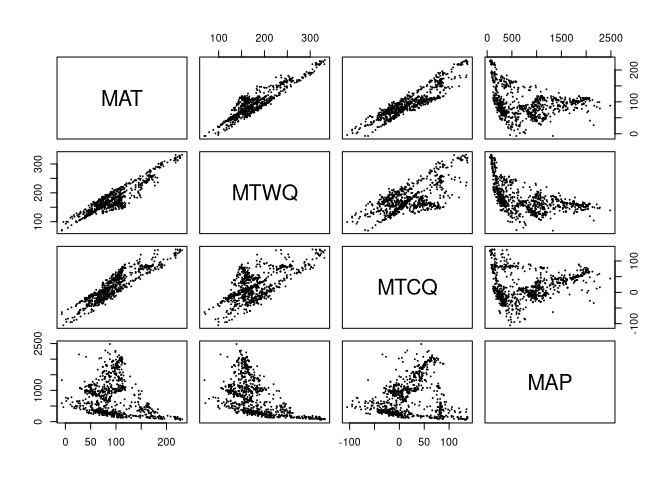
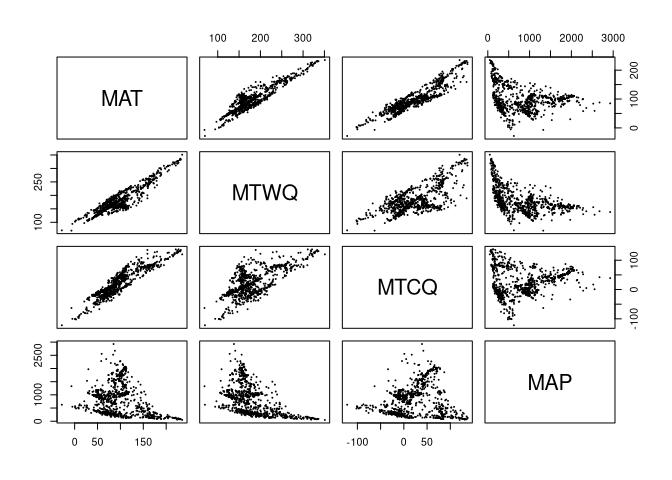
Update README

diff --git a/README.md b/README.md
@@ -167,14 +167,14 @@ SDM-ready dataframe of predictor values and species presence/(pseudo)absence
     ## MAT 
     ## 
     ## After excluding the collinear variables, the linear correlation coefficients ranges between: 
-    ## min correlation ( MAP ~ MTCQ ):  0.2644151 
-    ## max correlation ( MTCQ ~ MTWQ ):  0.60491 
+    ## min correlation ( MAP ~ MTCQ ):  0.1811388 
+    ## max correlation ( MTCQ ~ MTWQ ):  0.6354272 
     ## 
     ## ---------- VIFs of the remained variables -------- 
     ##   Variables      VIF
-    ## 1      MTWQ 5.864409
-    ## 2      MTCQ 4.749825
-    ## 3       MAP 3.998052
+    ## 1      MTWQ 5.590315
+    ## 2      MTCQ 4.215618
+    ## 3       MAP 3.446200
 
     # It appears that when MAT is removed. There aren't significant collinearity 
     # problems among the predictors
@@ -482,15 +482,15 @@ getmethodNames() to see all possible methods
     ## ---------------------------------------------- 
     ## Based on Correlation metric: 
     ## ---------------------------------------------- 
-    ## MTWQ                : ************* (25.9 %) 
-    ## MTCQ                : ** (4 %) 
-    ## MAP                 : ***************************** (57.4 %) 
+    ## MTWQ                : ***** (10.8 %) 
+    ## MTCQ                :  (0.8 %) 
+    ## MAP                 : *************************************** (77.3 %) 
     ## ============================================================= 
     ## Based on AUC metric: 
     ## ---------------------------------------------- 
-    ## MTWQ                : ********** (19.1 %) 
-    ## MTCQ                : ** (3.2 %) 
-    ## MAP                 : ********************** (43.5 %) 
+    ## MTWQ                : **** (7.9 %) 
+    ## MTCQ                :  (0.9 %) 
+    ## MAP                 : ****************************** (60.2 %) 
     ## =============================================================
 
     # Let's try GAM, a regression method
@@ -516,15 +516,15 @@ getmethodNames() to see all possible methods
     ## ---------------------------------------------- 
     ## Based on Correlation metric: 
     ## ---------------------------------------------- 
-    ## MTWQ                : ************** (27.7 %) 
-    ## MTCQ                : ****************** (35.5 %) 
-    ## MAP                 : ************************ (48.5 %) 
+    ## MTWQ                : ******* (14.8 %) 
+    ## MTCQ                : **************** (31 %) 
+    ## MAP                 : *************************** (54.2 %) 
     ## ============================================================= 
     ## Based on AUC metric: 
     ## ---------------------------------------------- 
-    ## MTWQ                : ************ (24.4 %) 
-    ## MTCQ                : ***************** (34 %) 
-    ## MAP                 : ***************** (33.4 %) 
+    ## MTWQ                : **** (8.7 %) 
+    ## MTCQ                : ************* (25.7 %) 
+    ## MAP                 : *********************** (45.5 %) 
     ## =============================================================
 
     # Let's try Random Forest, which is a machine learning method
@@ -550,15 +550,15 @@ getmethodNames() to see all possible methods
     ## ---------------------------------------------- 
     ## Based on Correlation metric: 
     ## ---------------------------------------------- 
-    ## MTWQ                : ********* (18.1 %) 
-    ## MTCQ                : ********** (19.2 %) 
-    ## MAP                 : *************************** (53.9 %) 
+    ## MTWQ                : ********* (18 %) 
+    ## MTCQ                : ********** (19.1 %) 
+    ## MAP                 : **************************** (55.1 %) 
     ## ============================================================= 
     ## Based on AUC metric: 
     ## ---------------------------------------------- 
-    ## MTWQ                : ***** (10.6 %) 
-    ## MTCQ                : ****** (11.6 %) 
-    ## MAP                 : ************************ (47 %) 
+    ## MTWQ                : ***** (9.8 %) 
+    ## MTCQ                : ****** (11.5 %) 
+    ## MAP                 : ************************ (48.8 %) 
     ## =============================================================
 
     # ENSEMBLE let's make an ensemble model of all of them
@@ -587,15 +587,15 @@ getmethodNames() to see all possible methods
     ## ---------------------------------------------- 
     ## Based on Correlation metric: 
     ## ---------------------------------------------- 
-    ## MTWQ                : ********[***--] (24 %) 
-    ## MTCQ                : [*********--------] (19.9 %) 
-    ## MAP                 : ***********************[***-] (53 %) 
+    ## MTWQ                : ****[**-] (14.4 %) 
+    ## MTCQ                [********--------] (16.9 %) 
+    ## MAP                 : ***********************[*******-------] (62.8 %) 
     ## ============================================================= 
     ## Based on AUC metric: 
     ## ---------------------------------------------- 
-    ## MTWQ                : ****[****---] (18.3 %) 
-    ## MTCQ               [: ********--------] (16.1 %) 
-    ## MAP                 : ****************[****--] (41.5 %) 
+    ## MTWQ                : ***[] (8.4 %) 
+    ## MTCQ               [: ******-------] (12.7 %) 
+    ## MAP                 : *********************[****---] (51.9 %) 
     ## =============================================================
 
 Model Evaluation methodologies coming soon!
